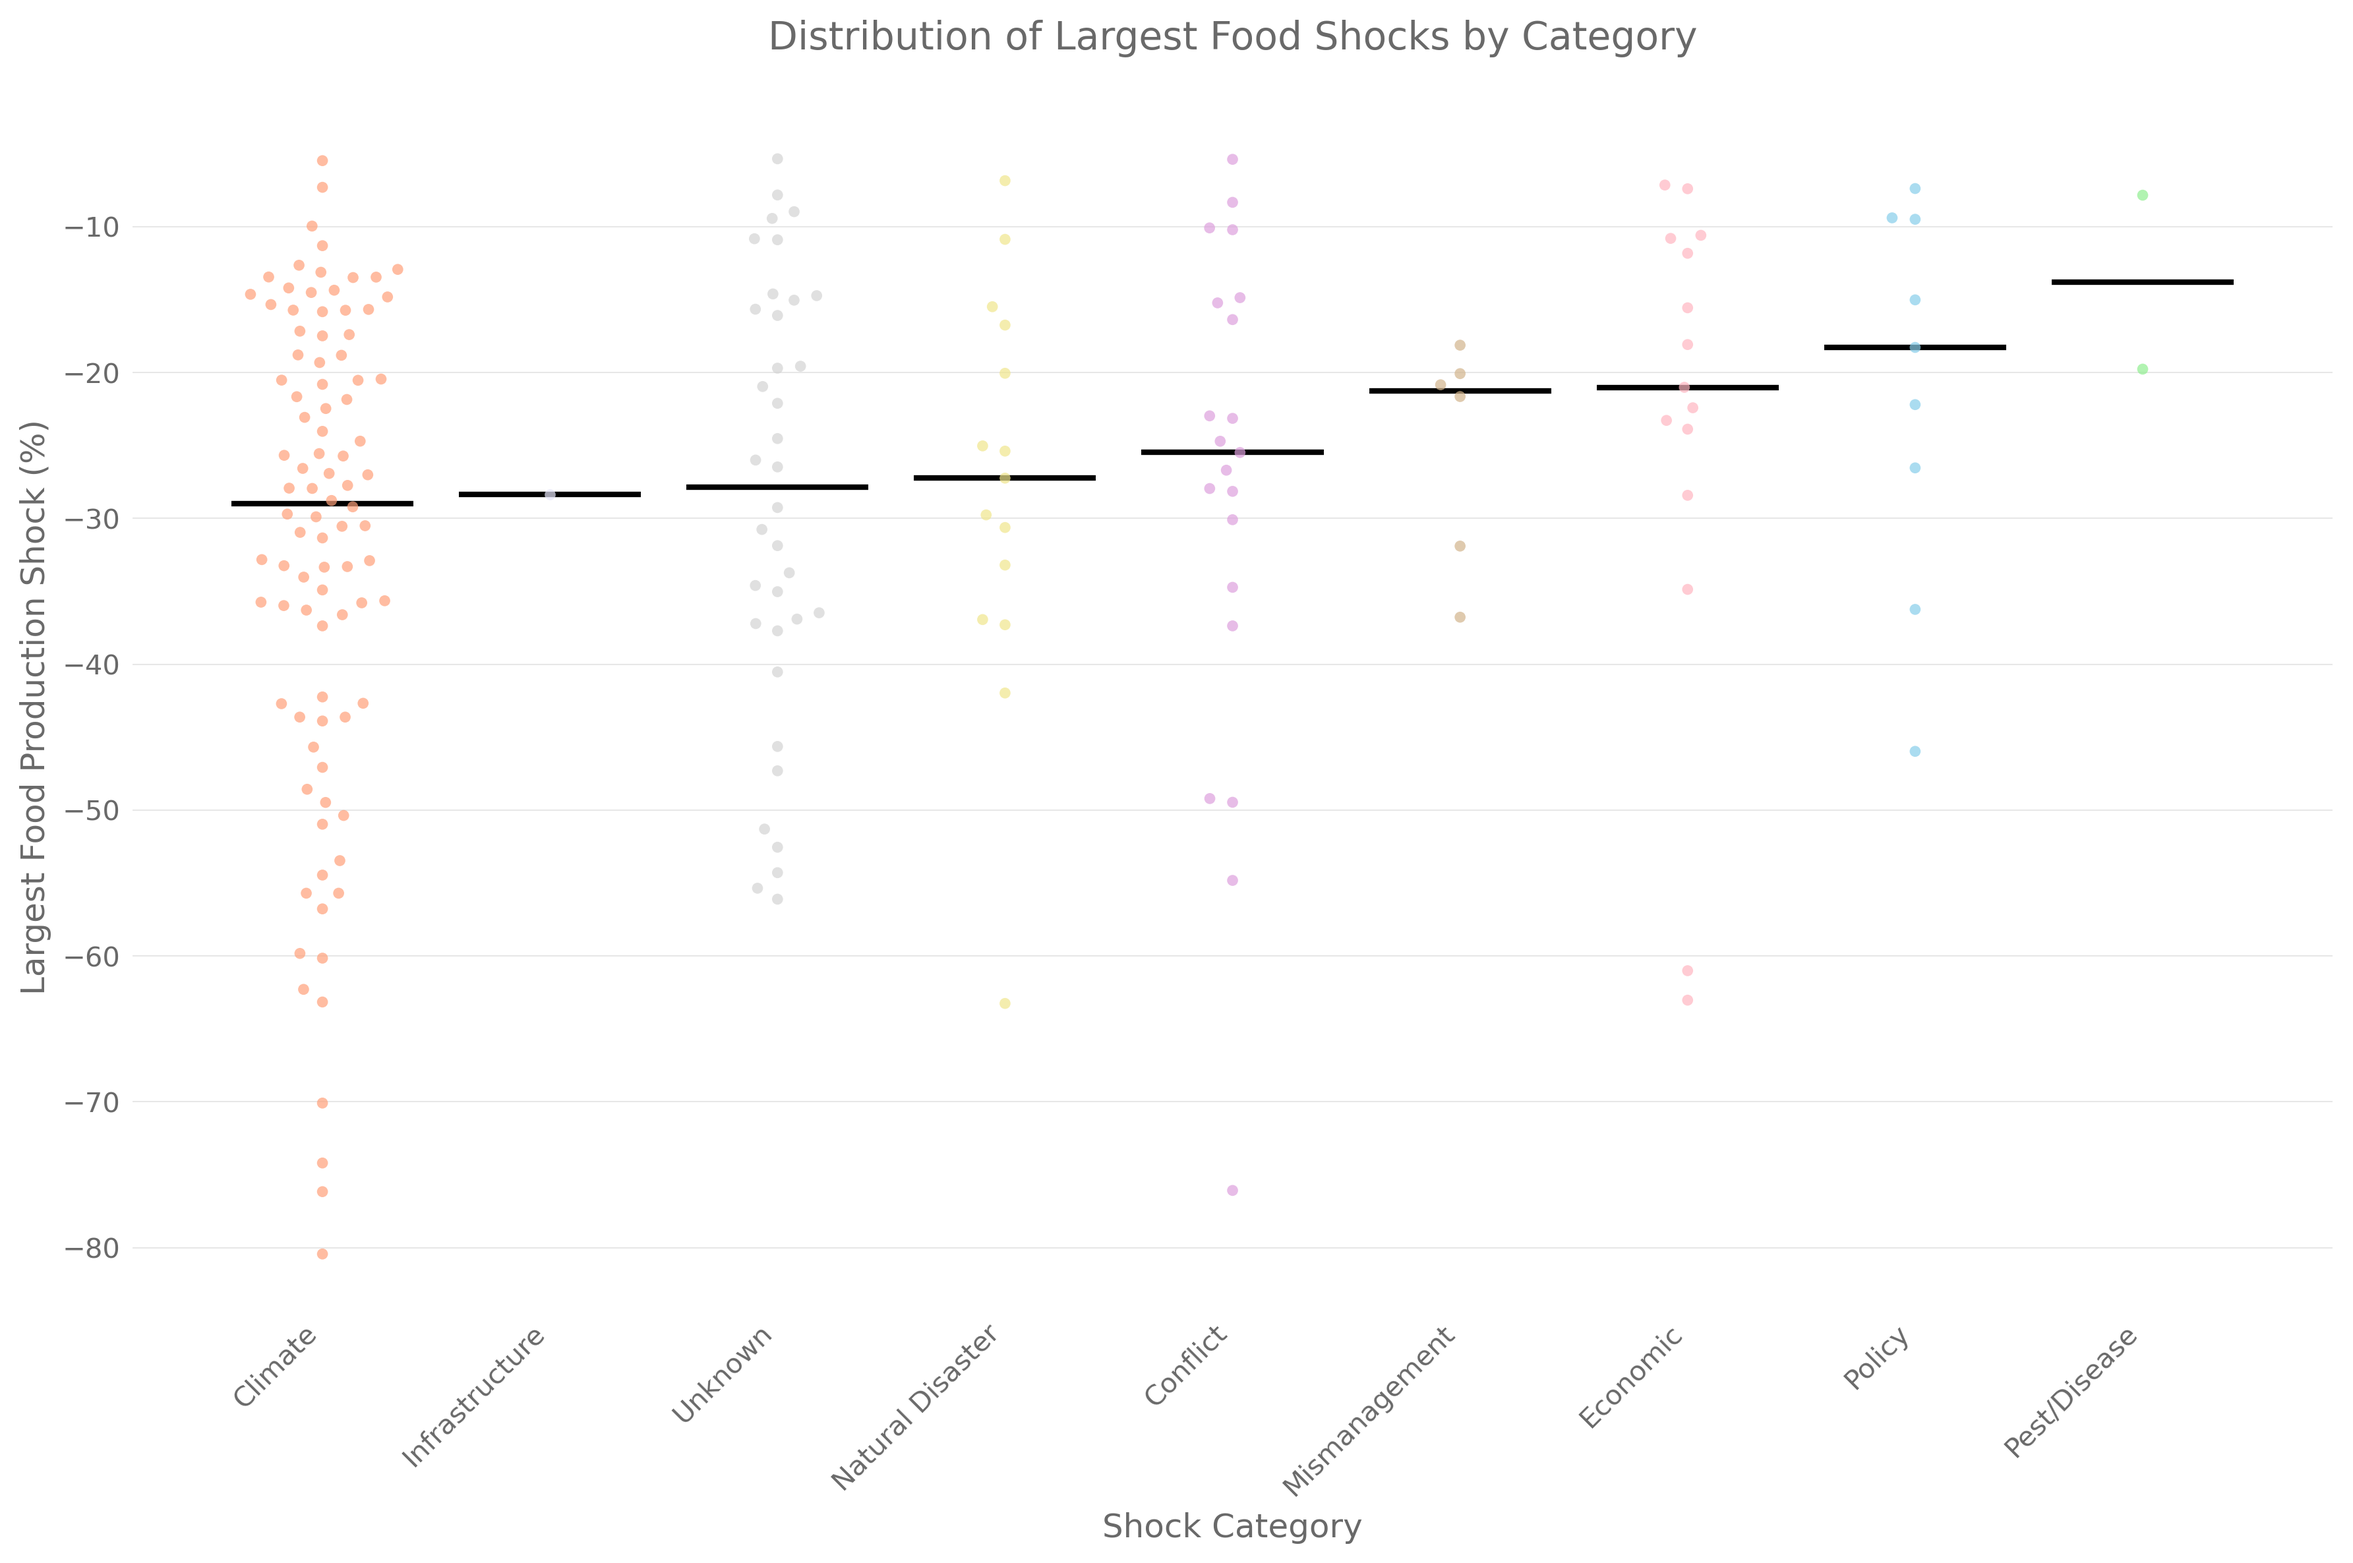
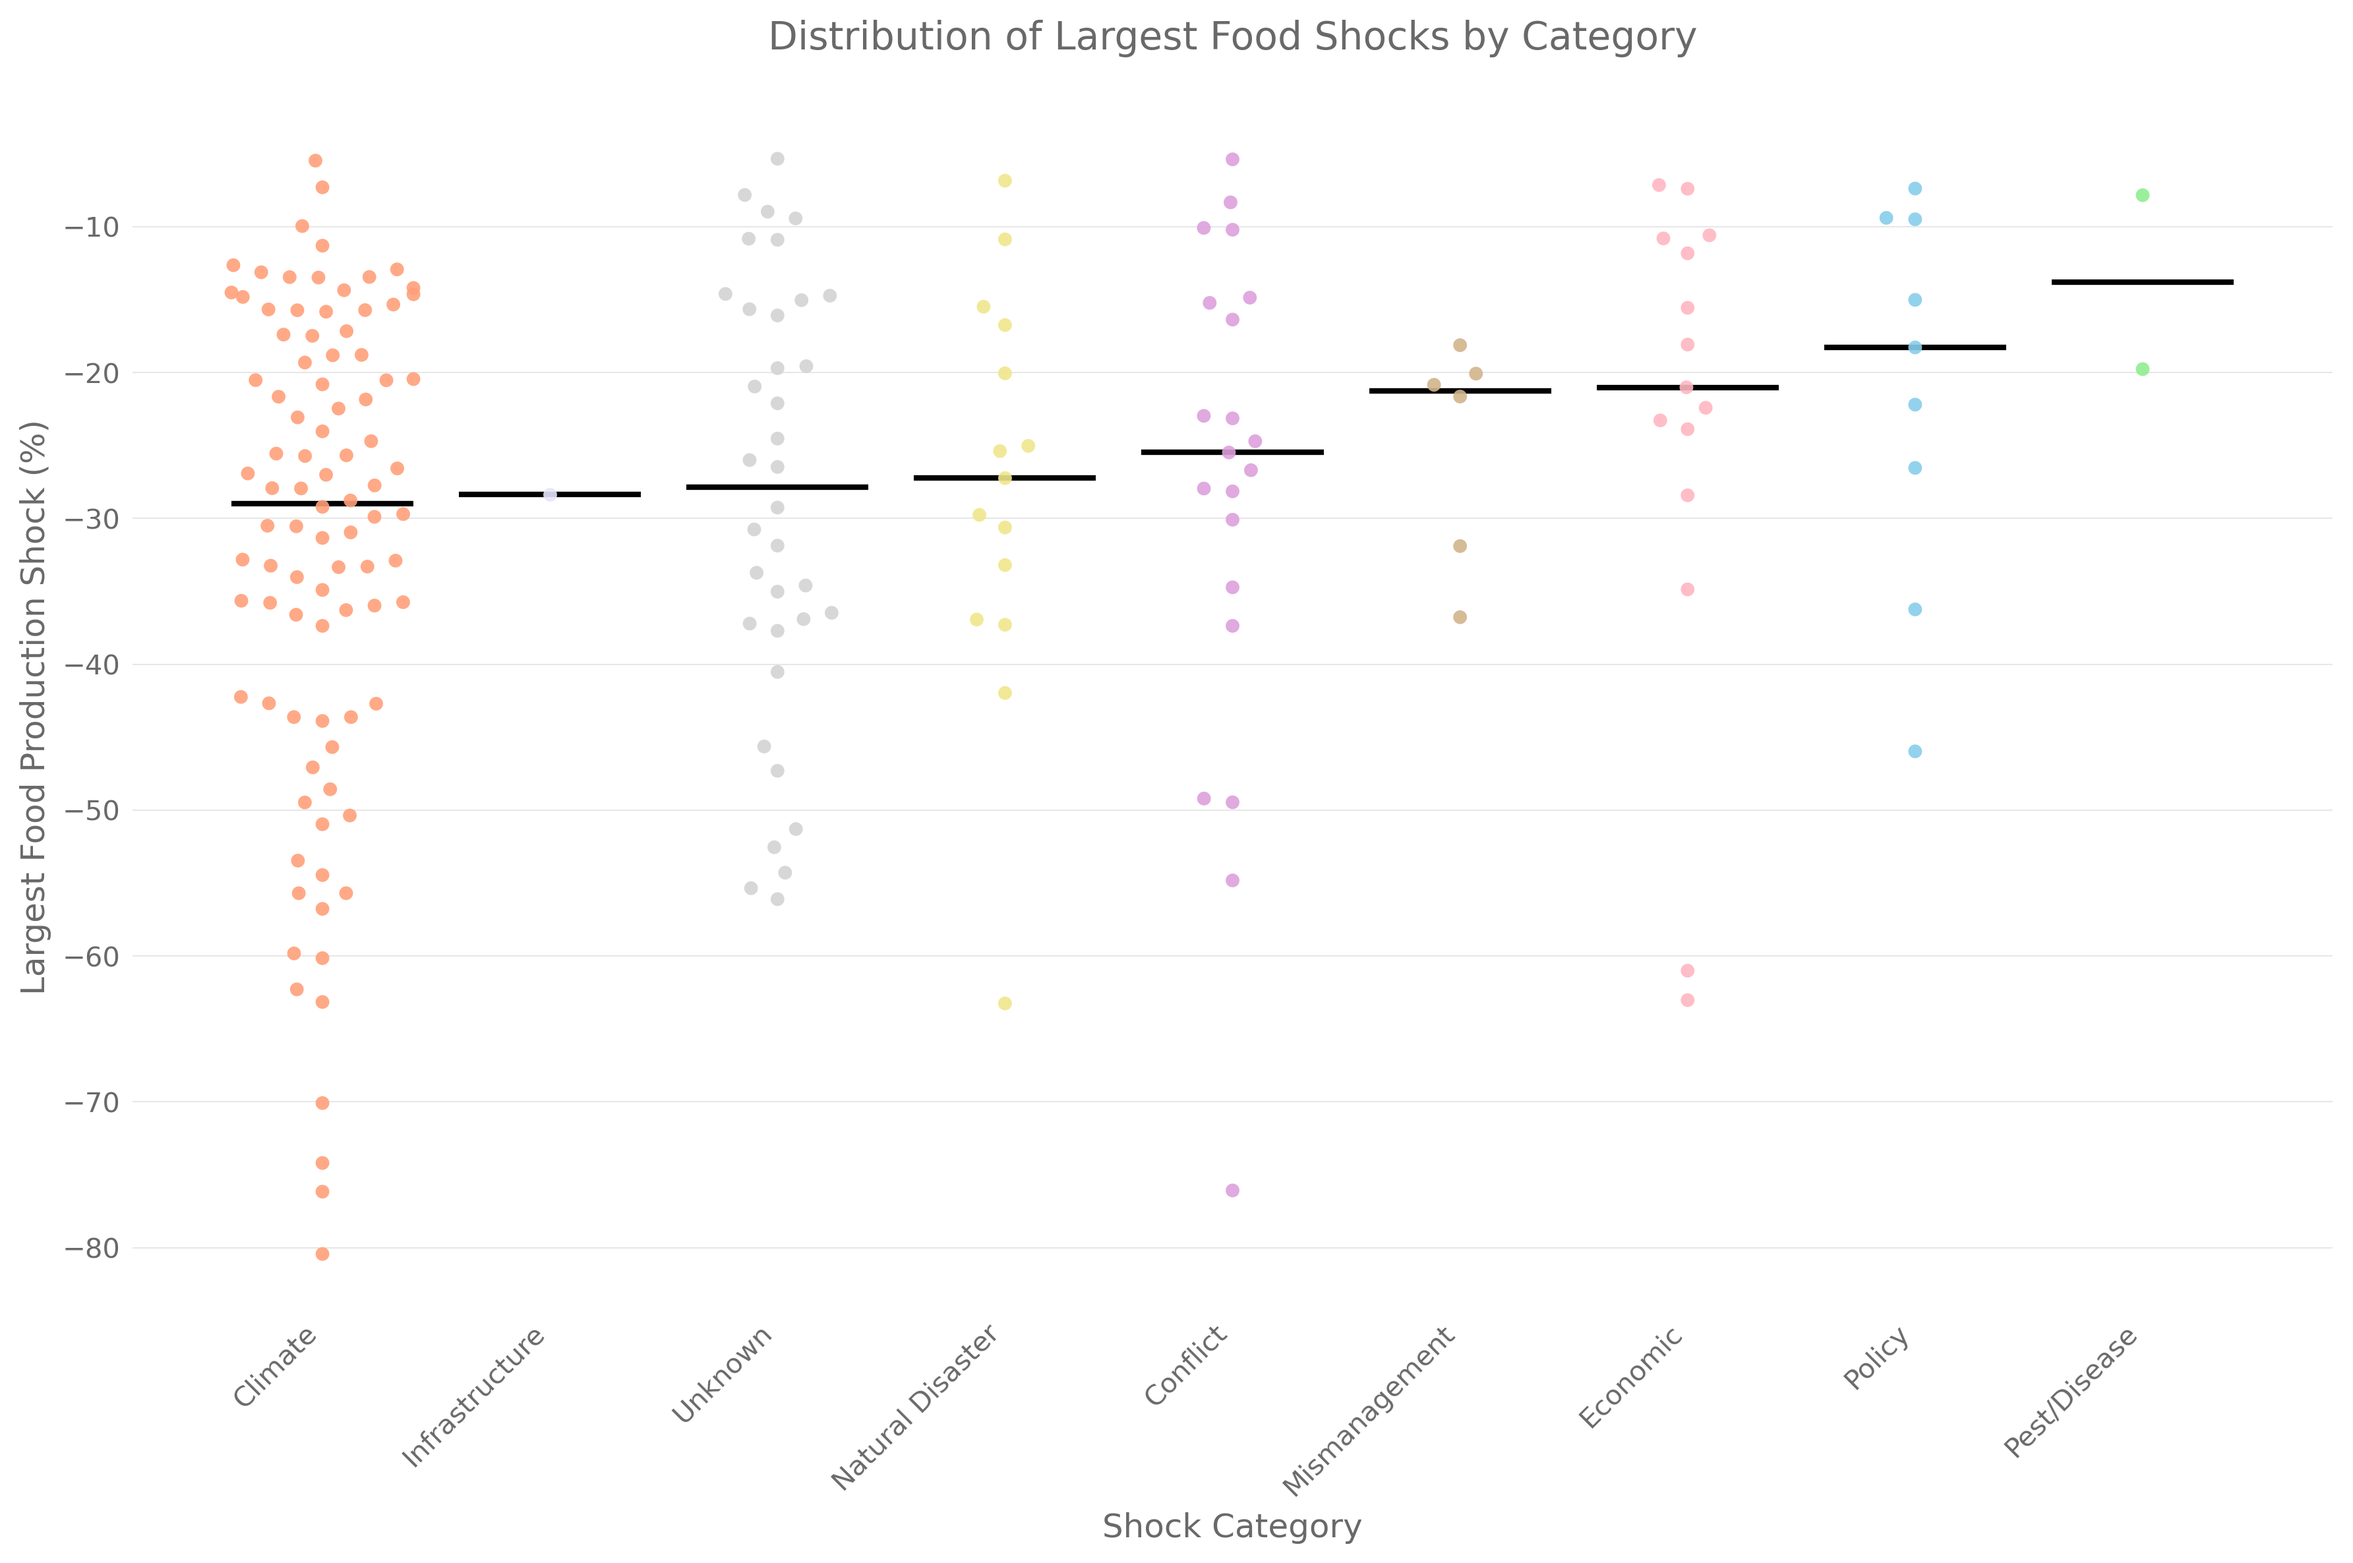
Added a plot that shows how many of the existing countires even had a shock

diff --git a/src/plot_countries_by_countries_per_decade.py b/src/plot_countries_by_countries_per_decade.py
@@ -1,0 +1,111 @@
+"""
+Create a bar plot showing the proportion of countries with food shocks per decade,
+adjusted for the changing number of countries over time.
+"""
+
+import pandas as pd
+import matplotlib.pyplot as plt
+import numpy as np
+from pathlib import Path
+
+# Set up ALLFED plotting style
+plt.style.use(
+    "https://raw.githubusercontent.com/allfed/ALLFED-matplotlib-style-sheet/main/ALLFED.mplstyle"
+)
+
+
+def main():
+    """Create bar plot of shock proportions adjusted for country counts."""
+    
+    # Load the shock data
+    shock_data = pd.read_csv("results/largest_food_shock_by_country_with_reasons.csv")
+    
+    # Load country count data
+    country_counts = pd.read_csv("data/number-of-countries.csv")
+    
+    # Filter for World entity and years 1961-2023
+    world_counts = country_counts[
+        (country_counts['Entity'] == 'World') & 
+        (country_counts['Year'] >= 1961) & 
+        (country_counts['Year'] <= 2023)
+    ].copy()
+    
+    # Extract decade from shock year
+    shock_data['decade'] = shock_data['year_of_shock'].apply(
+        lambda x: f"{int(x//10)*10}s" if x < 2020 else "2020-2023"
+    )
+    
+    # Count countries with shocks per decade
+    shocks_per_decade = shock_data.groupby('decade').size()
+    
+    # Calculate average country count per decade
+    world_counts['decade'] = world_counts['Year'].apply(
+        lambda x: f"{int(x//10)*10}s" if x < 2020 else "2020-2023"
+    )
+    
+    # Average number of countries per decade using Butcher and Griffiths data
+    avg_countries_per_decade = world_counts.groupby('decade')['Number of states in a region (Butcher and Griffiths)'].mean().round().astype(int)
+    
+    # Create DataFrame with both shock counts and country counts
+    decade_data = pd.DataFrame({
+        'Countries with shocks': shocks_per_decade,
+        'Total countries': avg_countries_per_decade
+    })
+    
+    # Calculate proportion
+    decade_data['Proportion'] = decade_data['Countries with shocks'] / decade_data['Total countries']
+    
+    # Define decade order
+    decade_order = ['1960s', '1970s', '1980s', '1990s', '2000s', '2010s', '2020-2023']
+    decade_data = decade_data.reindex(decade_order)
+    
+    # Create figure
+    fig, ax = plt.subplots(figsize=(10, 6))
+    
+    # Create bar plot
+    bars = ax.bar(
+        decade_data.index, 
+        decade_data['Proportion'] * 100,  # Convert to percentage
+        color='dimgrey',
+        edgecolor='white',
+        linewidth=0.5
+    )
+    
+    # Add value labels on bars
+    for i, (bar, total, shocks) in enumerate(zip(bars, decade_data['Total countries'], decade_data['Countries with shocks'])):
+        height = bar.get_height()
+        ax.text(
+            bar.get_x() + bar.get_width()/2., 
+            height + 1,
+            f'{shocks}/{total}',
+            ha='center', 
+            va='bottom',
+            fontsize=10
+        )
+    
+    # Customize plot
+    ax.set_xlabel('Decade', fontsize=12)
+    ax.set_ylabel('Percentage of Countries with Largest Shock (%)', fontsize=12)
+    ax.set_title('Proportion of Countries Experiencing Their Largest Food Shock by Decade', fontsize=14, pad=20)
+    
+    # Set y-axis limits
+    ax.set_ylim(0, max(decade_data['Proportion'] * 100) * 1.15)
+    
+    # Add grid
+    ax.grid(True, axis='y', alpha=0.3)
+    ax.xaxis.grid(False)
+    ax.set_axisbelow(True)
+    
+    # Rotate x-axis labels
+    plt.xticks(rotation=45, ha='right')
+    
+    # Save figure
+    output_path = Path("results/figures/shock_proportion_by_decade.png")
+    output_path.parent.mkdir(parents=True, exist_ok=True)
+    plt.tight_layout()
+    plt.savefig(output_path, bbox_inches='tight', dpi=300)
+    plt.close()
+
+
+if __name__ == "__main__":
+    main()

diff --git a/src/plot_compare_shock_reasons.py b/src/plot_compare_shock_reasons.py
@@ -107,8 +107,8 @@ def plot_swarm_by_category(data):
         y='largest_food_shock',
         order=category_order,
         palette=palette,
-        size=8,  # Increased from 6 to 8
-        alpha=0.7,
+        size=10,
+        alpha=0.9,
         ax=ax
     )
     
